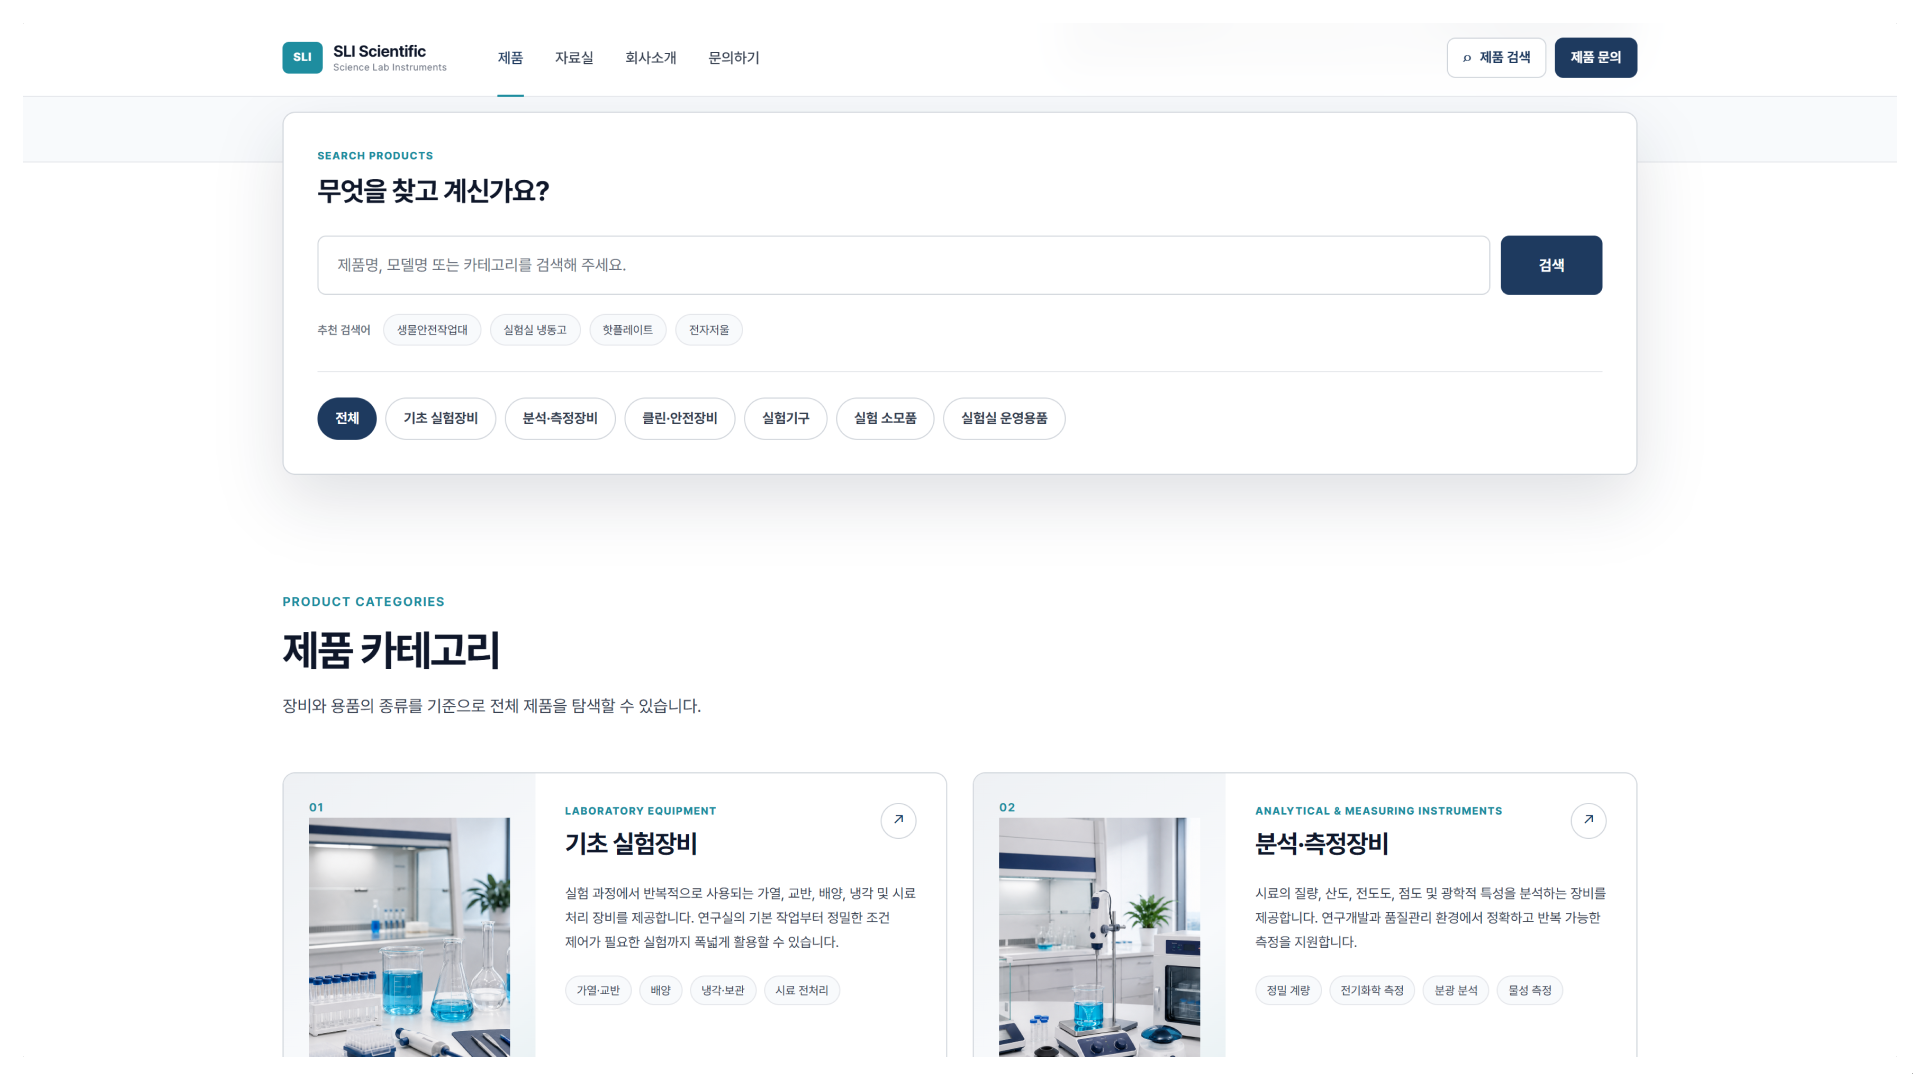
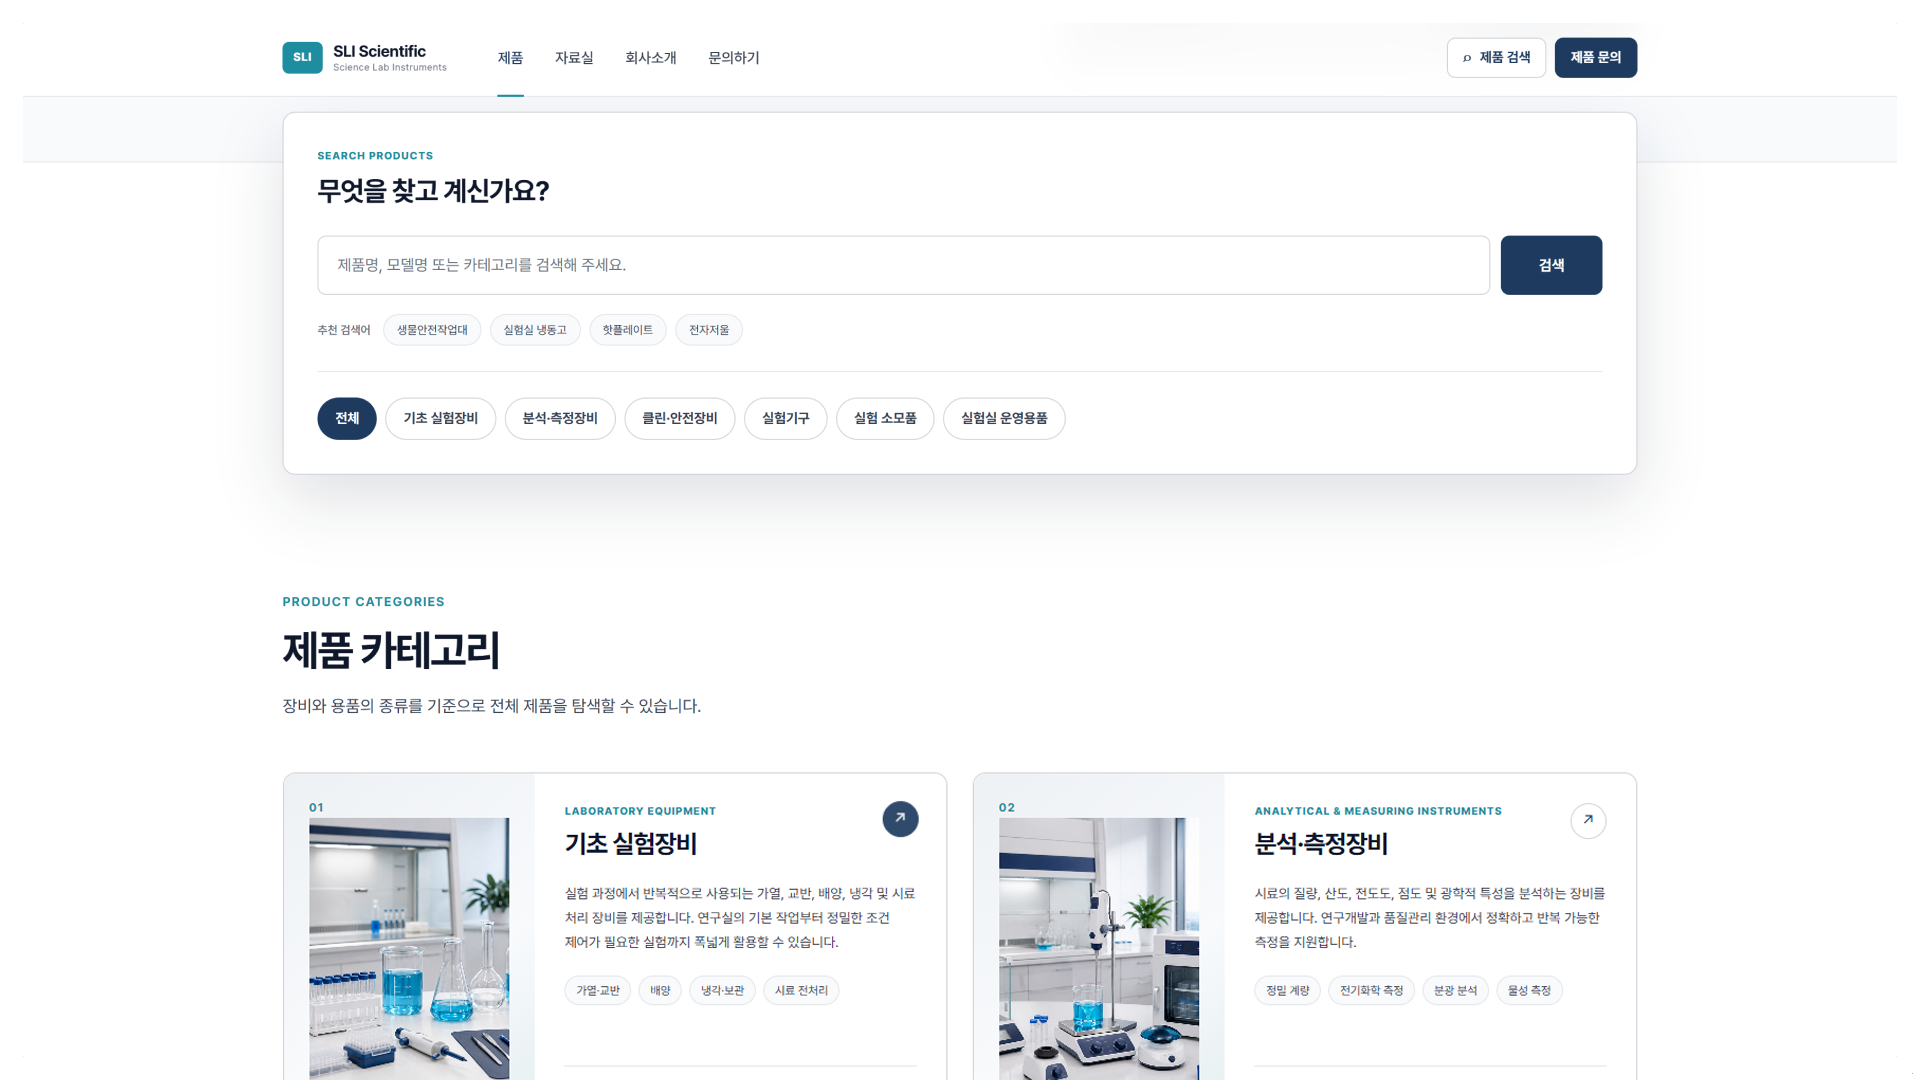
home

diff --git a/src/styles/home.css b/src/styles/home.css
@@ -244,7 +244,7 @@
   .project-card__image-link {
     display: block;
     overflow: hidden;
-    aspect-ratio: 16 / 10;
+    aspect-ratio: 16 / 9;
     background: #ffffff;
     border: 1px solid var(--color-border);
     border-radius: var(--radius-md);
